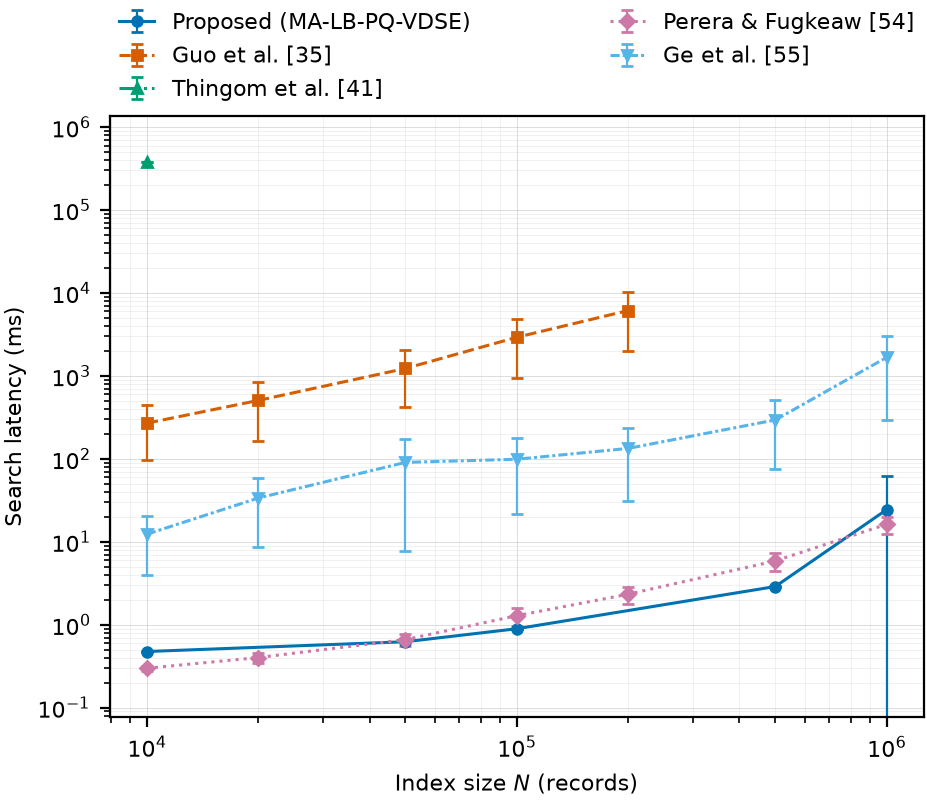
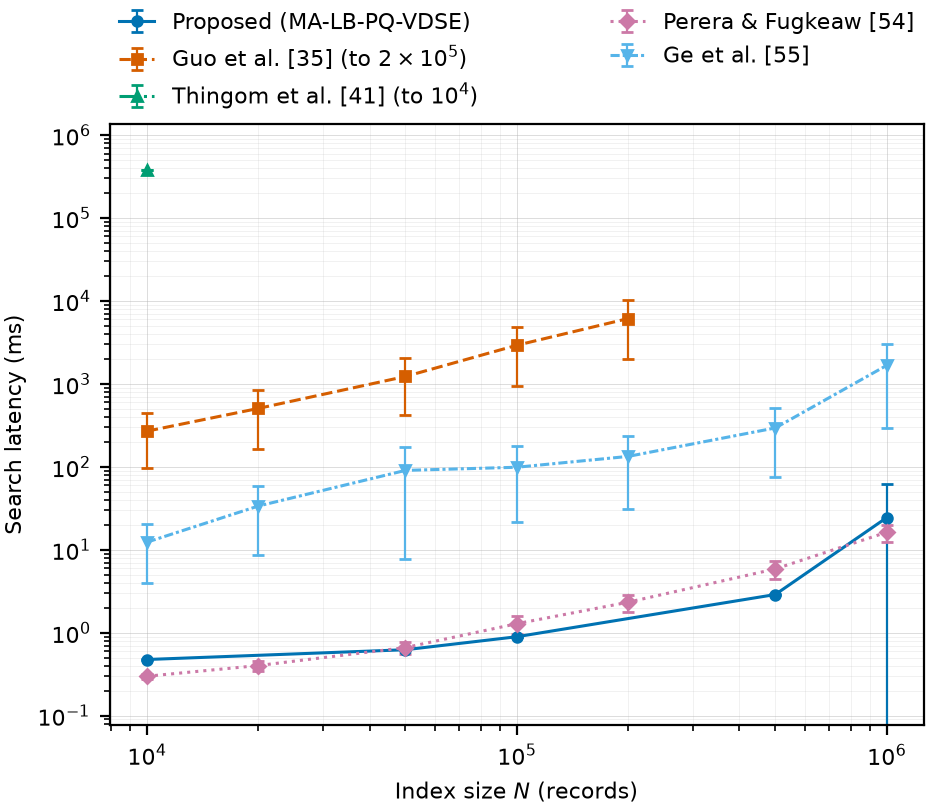
fix(plots): label capped series so a short curve reads as a cap, not a failure
guo_vdsse's Exp. 2 stops at N=2e5 and thingom_pq_abse's at 10^4. Both are
disclosed memory caps -- guo's forward index is 51.7 GB at 10^6 against a
16 GiB host -- but the figure did not say so, and a line that simply stops
reads as a failed or missing run. It was the first thing asked of the figure.

A series that ends short of the sweep now carries its endpoint in the legend,
e.g. "Guo et al. [35] (to 2x10^5)", rendered with mathtext so the exponent is a
real superscript in both PDF and PNG. Derived from the data, so it stays correct
if a cap changes and disappears if one is lifted.

This does not replace the §V disclosure; it stops the figure being misread on
its own.

Claude-Session: https://claude.ai/code/session_01QsVHFJWrCiTf7M3dGNrPF7

diff --git a/Plots/generate_plots.py b/Plots/generate_plots.py
@@ -251,10 +251,27 @@ plt.rcParams.update({
 })
 
 
+def _axis_number(v: float) -> str:
+    """Compact scientific form for a legend note: 200000 -> 2x10^5."""
+    if v <= 0:
+        return str(v)
+    exp = int(math.floor(math.log10(v)))
+    mant = v / (10 ** exp)
+    if exp < 3:
+        return f"{v:g}"
+    # mathtext, so the exponent renders as a superscript in both the PDF and
+    # the PNG rather than as a literal "10^5".
+    return (rf"$10^{{{exp}}}$" if abs(mant - 1) < 1e-9
+            else rf"${mant:g}\times10^{{{exp}}}$")
+
+
 def render(spec: ExperimentSpec, series_list: Sequence[Series],
            out_path: Path, dpi: Optional[int] = None) -> Tuple[bool, List[str]]:
     """Draw one figure. Returns (written, warnings)."""
     warnings: List[str] = []
+    # The furthest point any scheme reached, so a shorter series can be marked.
+    _all_x = [v for s in series_list for v in s.x]
+    max_x = max(_all_x) if _all_x else None
     if not series_list:
         return False, [f"exp{spec.number}: no results.csv found for any scheme"]
 
@@ -263,6 +280,14 @@ def render(spec: ExperimentSpec, series_list: Sequence[Series],
                          key=lambda s: STYLE_ORDER.index(s.scheme)
                          if s.scheme in STYLE_ORDER else 99):
         label = SCHEME_LABELS.get(series.scheme, series.scheme)
+        # A series that stops short of the sweep is a DISCLOSED CAP, not missing
+        # data -- guo_vdsse's Exp. 2 ends at N=2e5 because its forward index is
+        # 51.7 GB at 10^6 on a 16 GiB host, and thingom_pq_abse ends at 10^4 for
+        # the same class of reason. Unlabelled, a line that simply stops reads
+        # as a failed run; the first question anyone asks of the figure is why
+        # it vanishes. Say so on the curve itself.
+        if series.x and max_x is not None and max(series.x) < max_x:
+            label += f" (to {_axis_number(max(series.x))})"
         ax.errorbar(
             series.x, series.y, yerr=series.yerr,
             label=label, capsize=2, markersize=3.5, linewidth=1.1,
